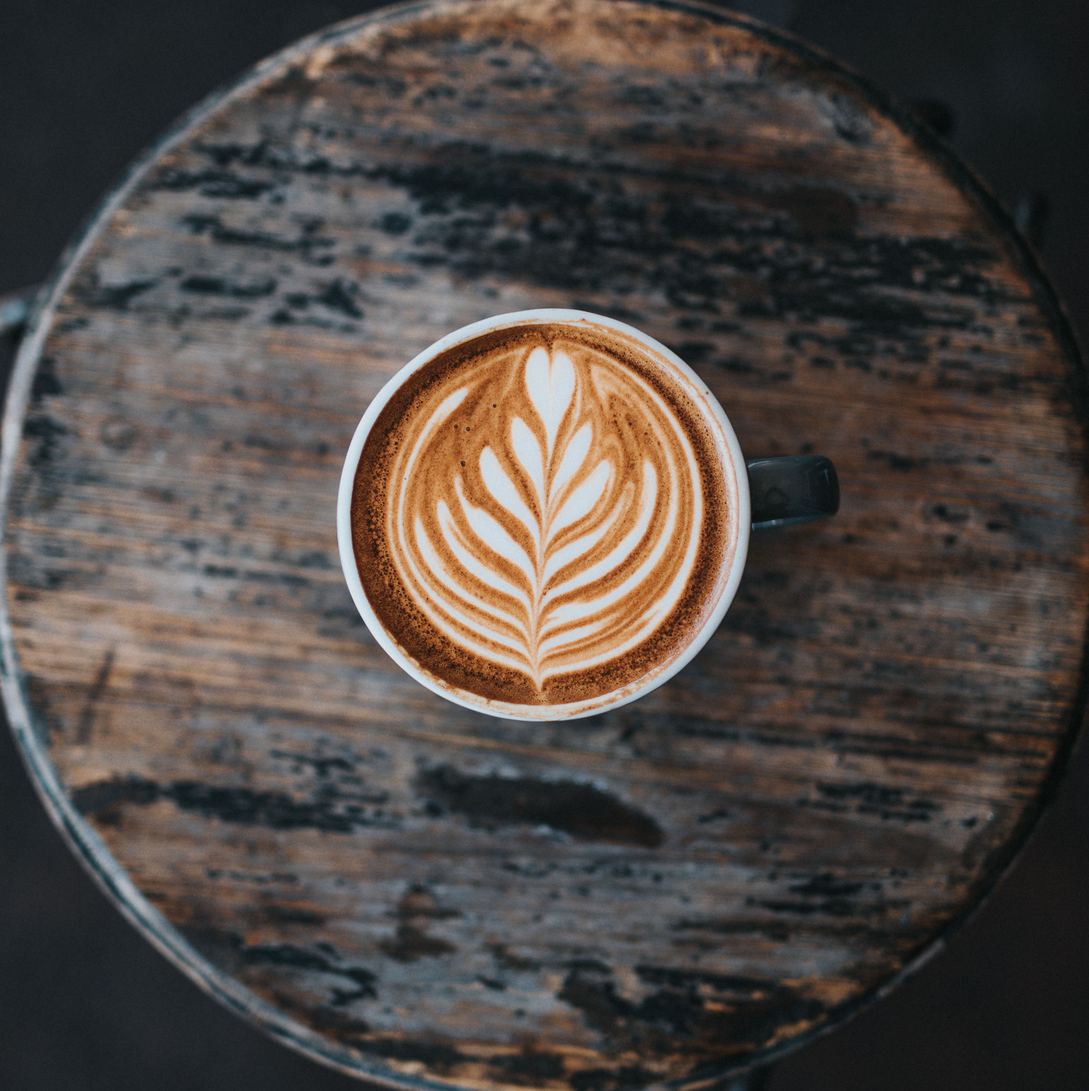
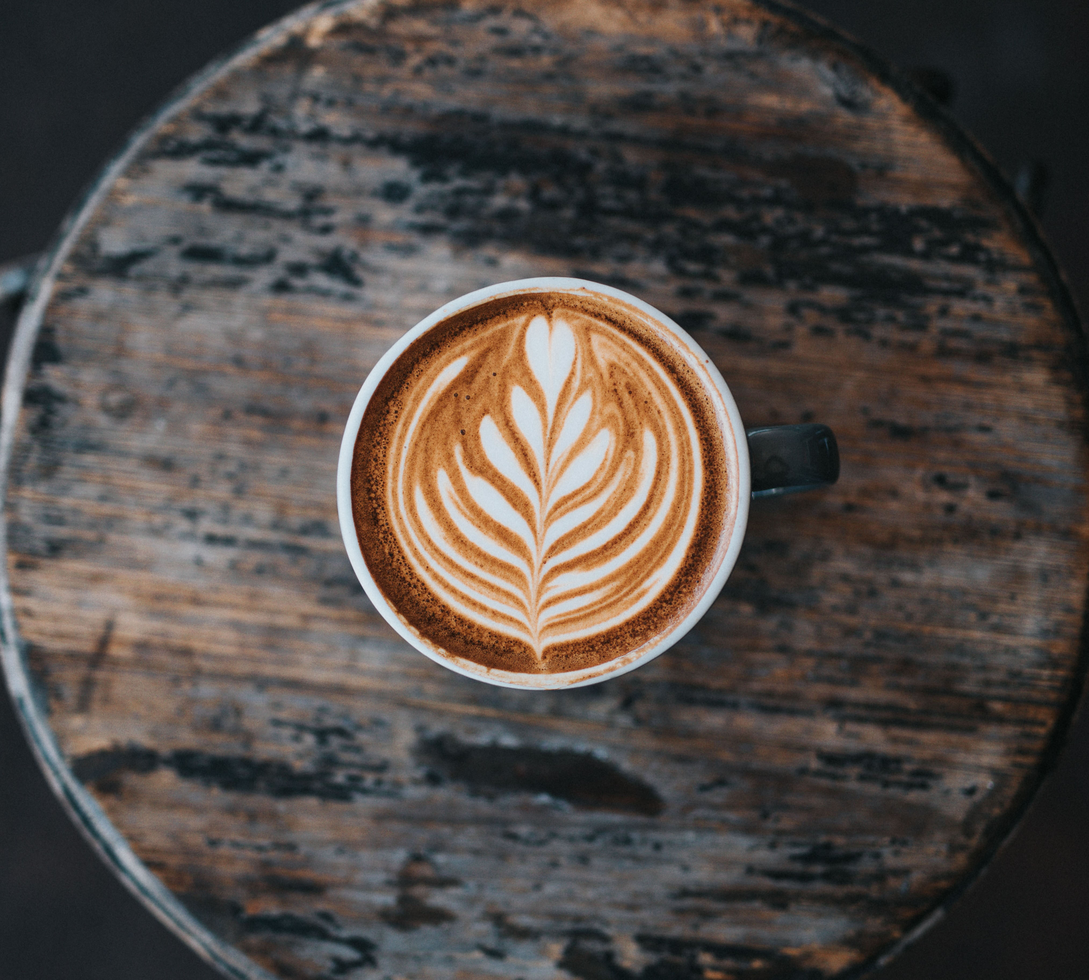
updated images in coffees page

diff --git a/html.html/pages/your_bag.html b/html.html/pages/your_bag.html
@@ -43,7 +43,7 @@
     
       <div class="cart-row">
         
-        <img src="..//Images/latte.jpg" alt="latte"/>
+        <img src="..//Images/latte copy.jpg" alt="latte"/>
           
         <div class="description">
           <div class="title">
@@ -69,7 +69,7 @@
       <!-- product 2 -->
       <div class="cart-row">
         
-        <img src="..//Images/latte.jpg" alt="latte"/>
+        <img src="..//Images/latte copy.jpg" alt="latte"/>
           
         <div class="description">
           <div class="title">

diff --git a/html.html/pages/coffees.html b/html.html/pages/coffees.html
@@ -69,8 +69,8 @@
   </div>
 <!-- item 2 -->
   <div class="coffee-card">   
-    <img src="../Images/capuccino copy.jpg" alt="capuccino">
-    <h1>Capuccino<br>Kaputino</h1>
+    <img src="../Images/cappuccino.jpg" alt="cappuccino">
+    <h1>Cappuccino<br>Kaputino</h1>
     <div class="dropdown">
         <select name="size" class="dropbtn">
             <option value="default" selected>Select Your Size <br>/ Rahi</option>

diff --git a/css/style.scss b/css/style.scss
@@ -154,7 +154,7 @@ body {
 .coffee-card img{
   width: 100%;
   object-fit: cover;
-  max-height: 300px;
+  max-height: 210px;
   // photo size is w4054 h4064
 }
 

diff --git a/css/style.css b/css/style.css
@@ -143,7 +143,7 @@ body {
 .coffee-card img {
   width: 100%;
   object-fit: cover;
-  max-height: 300px;
+  max-height: 210px;
 }
 
 .dropdown {
